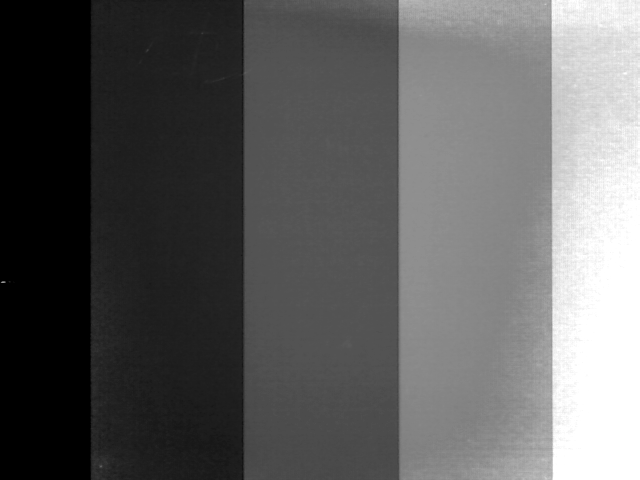
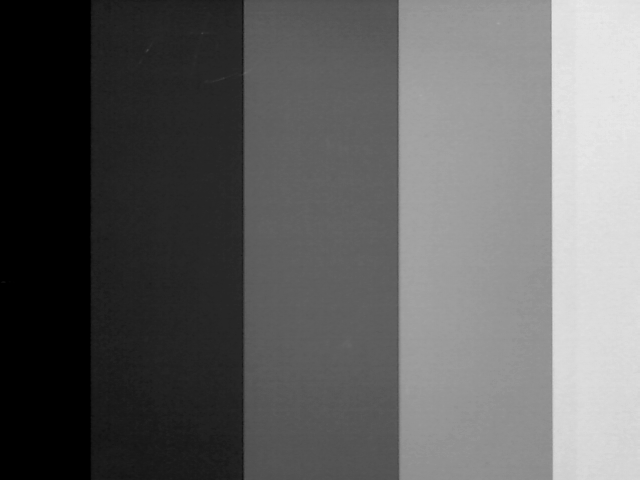
Abgabe 2 verbessert

diff --git a/Versuch2/versuch2.py b/Versuch2/versuch2.py
@@ -1,8 +1,10 @@
 import cv2
+import numpy
 import numpy as np
 
 image = cv2.imread('./Bilder/Grauwertkeil.png')
 grauwertkeil = cv2.cvtColor(image, cv2.COLOR_BGR2GRAY)
+grauwertkeil = grauwertkeil.astype(numpy.float32)
 
 # Aufbau der beiden Arrays: alle ungeraden Werte sind Startwerte eines Bereichs,
 # die geraden die zugehörigen Endwerte
@@ -63,22 +65,14 @@ while i < len(xValues):
 print("Mittelwerte SubPics:\n{}".format(subPicsMean))
 print("Standardabweichung SubPics:\n{}".format(subPicsStd))
 
-# for i in range(len(grauwertkeil[0])):
-#     print("Pixel {}: {}".format(i, grauwertkeil[0][i]))
-
-# print("X-Wert: " + str(len(grauwertkeil[0])))
-# print("Y-Wert: " + str(len(grauwertkeil)))
-
-# cv2.imshow('grauwertkeil', grauwertkeil)
-# cv2.waitKey(0)
 
 def bildKontrastMaximiert(img, filename):
-    imgCorrected = img
-    min = np.min(imgCorrected)
-    max = np.max(imgCorrected)
+    imgCorrected = np.zeros(shape=(len(img), len(img[0])))
+    min = np.min(img)
+    max = np.max(img)
     for i in range(480):
         for j in range(640):
-            imgCorrected[i][j] = imgCorrected[i][j] - min
+            imgCorrected[i][j] = img[i][j] - min
             if max > min:
                 imgCorrected[i][j] = imgCorrected[i][j] * (255 / (max - min))
             else:
@@ -86,7 +80,15 @@ def bildKontrastMaximiert(img, filename):
 
     cv2.imwrite('{}.png'.format(filename), imgCorrected)
     print("{}.png gespeichert".format(filename))
+
+    count = 0
+    for i in range(len(img)):
+        for j in range(len(img[0])):
+            if img[i][j] == imgCorrected[i][j]:
+                count += 1
+    print("Counter: {}".format(count))
     return imgCorrected
+
 
 # ---------------------------------------------------------
 # Teil 2
@@ -116,6 +118,7 @@ def pixelwiseMeanAndSave(arr, filename):
 
 darkImageMean = pixelwiseMeanAndSave(darkImagesGray, "Dunkelbild")
 bildKontrastMaximiert(darkImageMean, "Dunkelbild_kontrastmax")
+
 
 # print("DarkImageMean Array:\n{}".format(darkImageMean))
 # print("DarkImage Y: {}".format(len(darkImageMean)))
